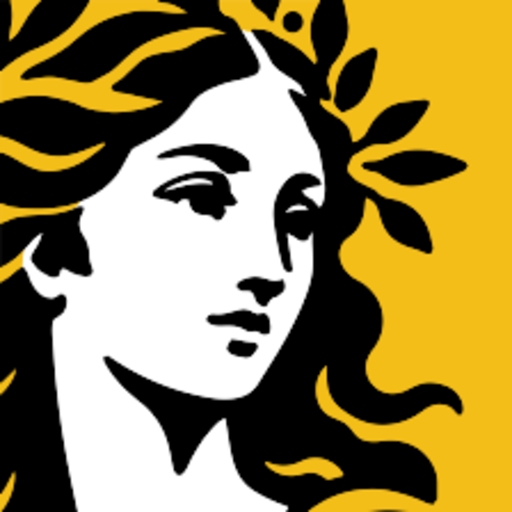
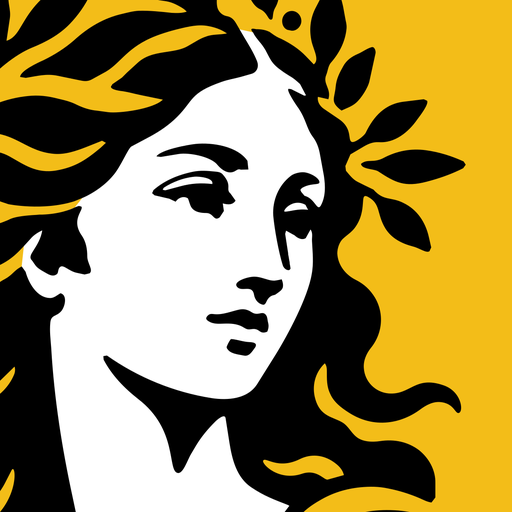
Update Amalith branding across app and website

diff --git a/website/app/Header.tsx b/website/app/Header.tsx
@@ -2,7 +2,6 @@
 
 import { useEffect, useRef } from "react";
 import { ArrowUpRight } from "./ArrowUpRight";
-import wordmark from "../public/brand/amalith-wordmark.png";
 
 export function Header({ basePath }: { basePath: string }) {
   const headerRef = useRef<HTMLElement>(null);
@@ -47,7 +46,7 @@ export function Header({ basePath }: { basePath: string }) {
         }}
       />
       <a className="brand" href={homeHref} aria-label="Amalith home">
-        <img src={wordmark.src} alt="Amalith" width={669} height={160} />
+        <img src={`${basePath}/brand/amalith-wordmark.svg`} alt="Amalith" width={689} height={160} />
       </a>
       <nav className="desktop-nav" aria-label="Primary navigation">
         <a href={whyHref}>Why Amalith</a>

diff --git a/crates/amalith-shell/src/about.rs b/crates/amalith-shell/src/about.rs
@@ -22,7 +22,7 @@ use crate::text::TextContext;
 
 /// Right-side illustration (pre-cropped to the panel's aspect).
 const ART_PNG: &[u8] = include_bytes!("../assets/about/art.png");
-/// The Amalith wordmark, white on transparent.
+/// The Amalith icon + wordmark lockup, on transparent.
 const LOGO_PNG: &[u8] = include_bytes!("../assets/about/wordmark.png");
 
 /// Where `Github` points.

diff --git a/README.md b/README.md
@@ -1,5 +1,5 @@
 <p align="center">
-  <img src="website/public/brand/amalith-wordmark.png" width="360" alt="Amalith logo">
+  <img src="website/public/brand/amalith-wordmark.svg" width="360" alt="Amalith logo">
 </p>
 
 <p align="center"><em>The Illustrator-class vector editor that launched yesterday with 20 years of tutorials.</em></p>
